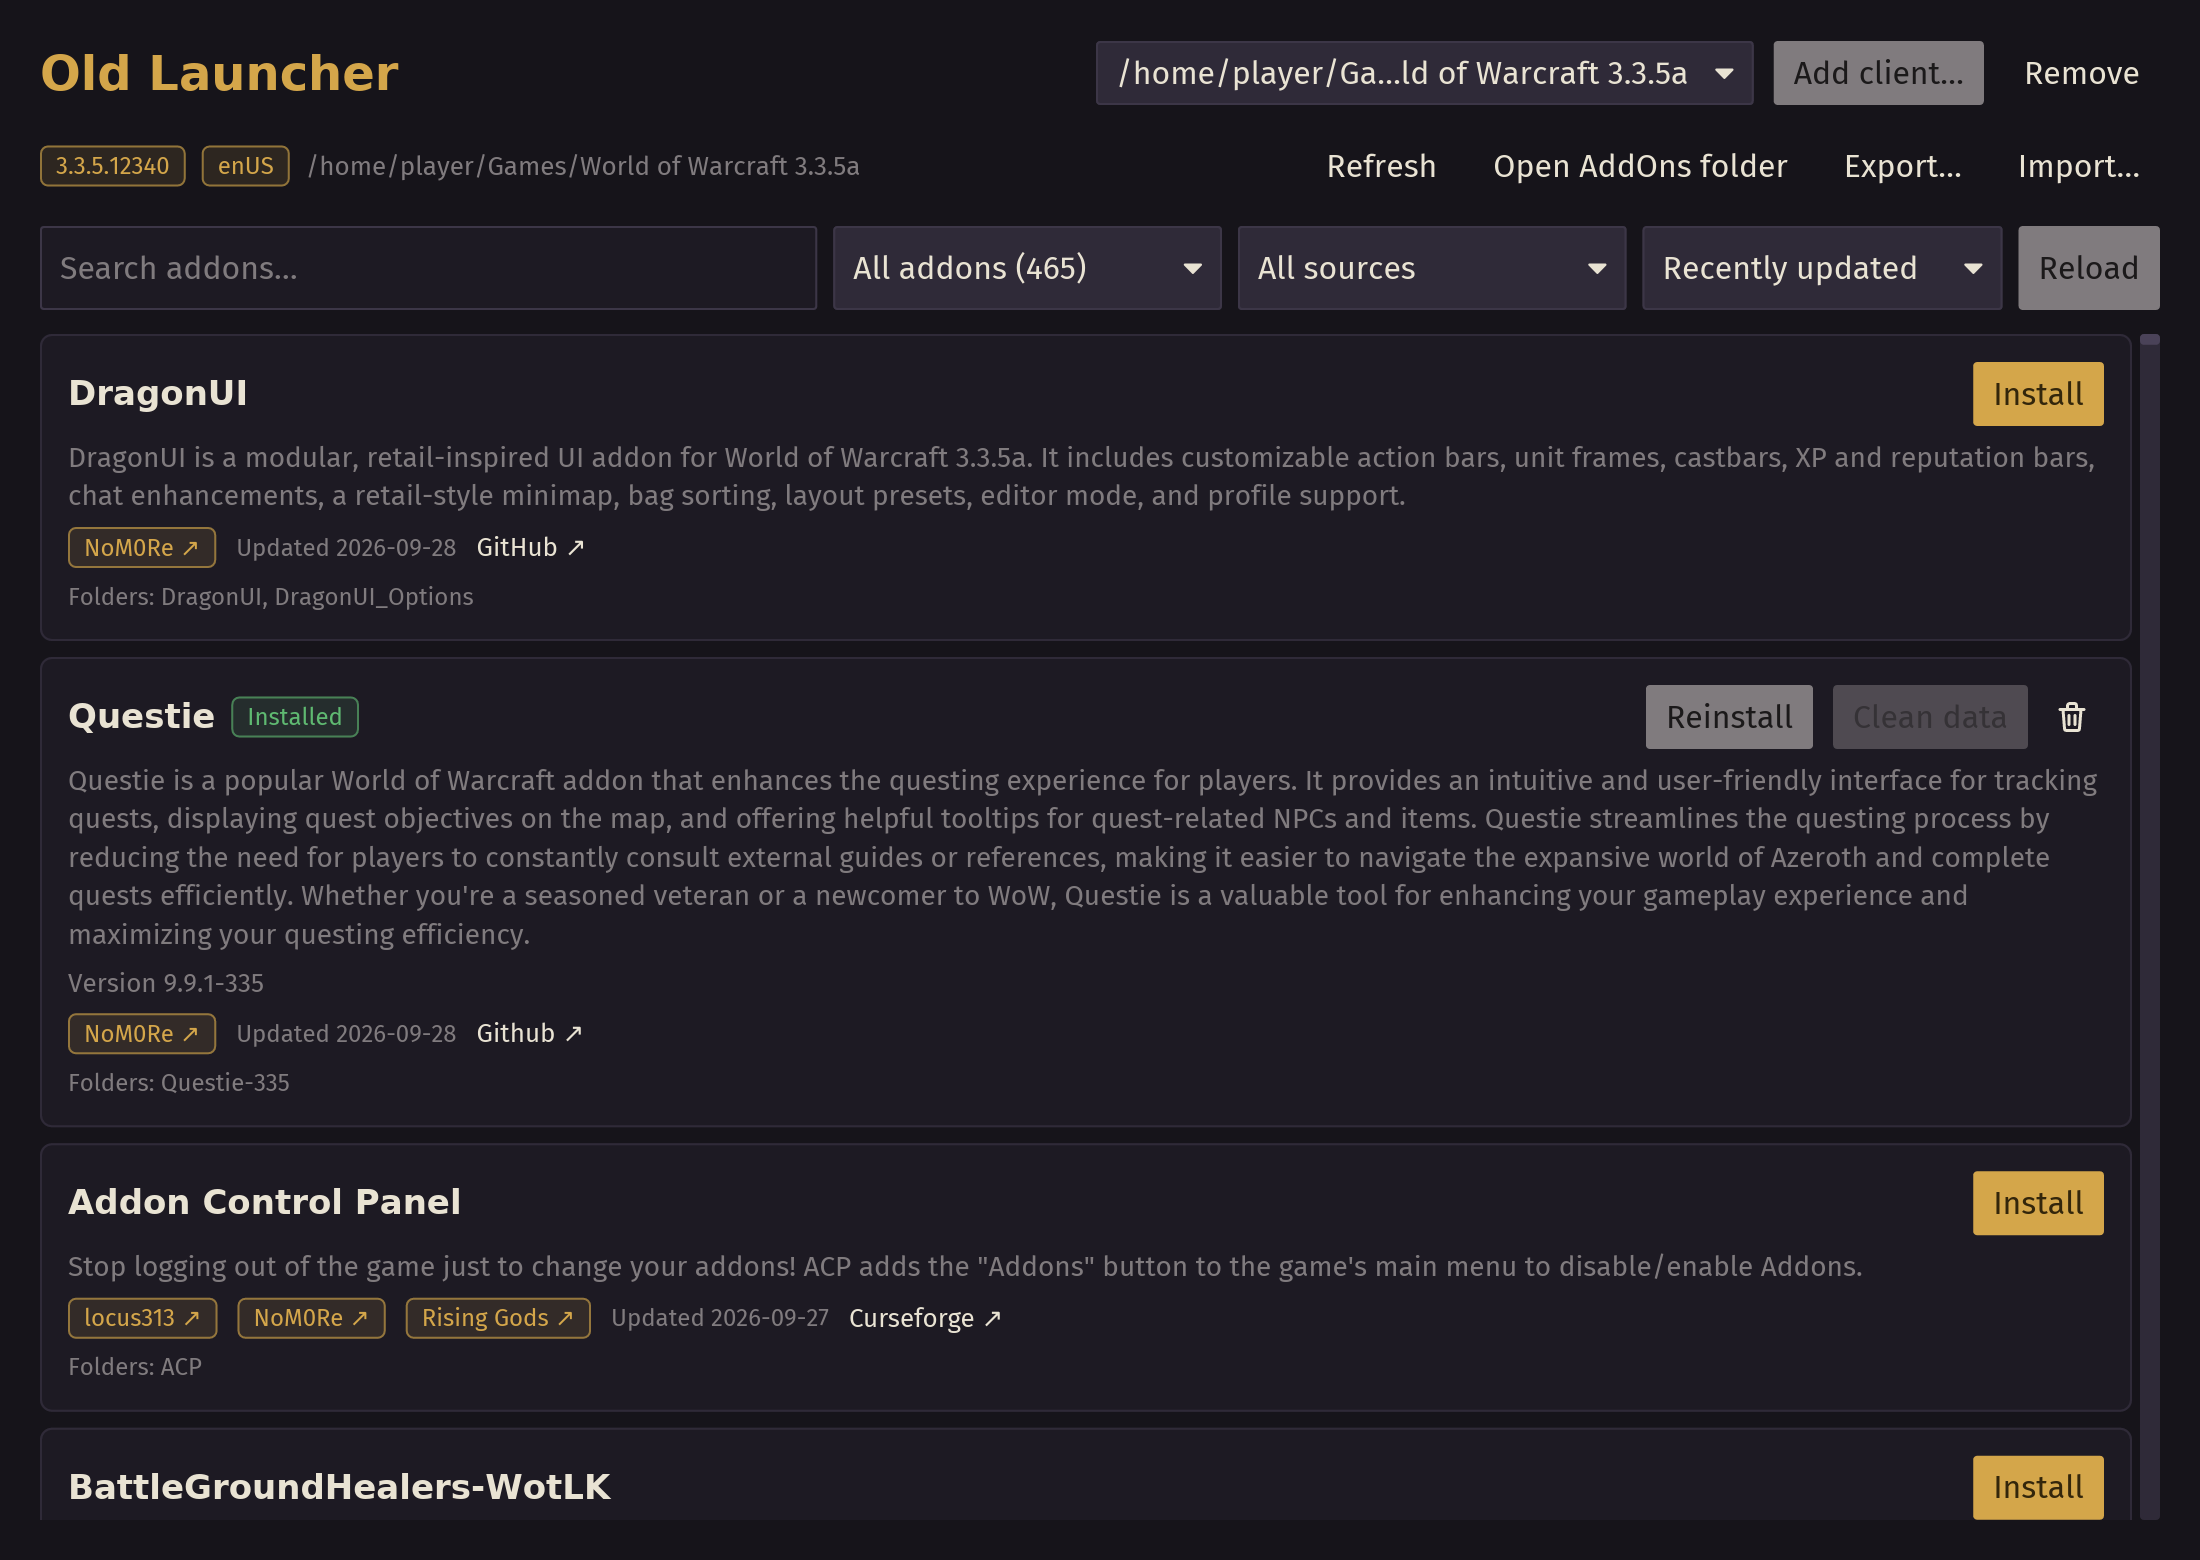
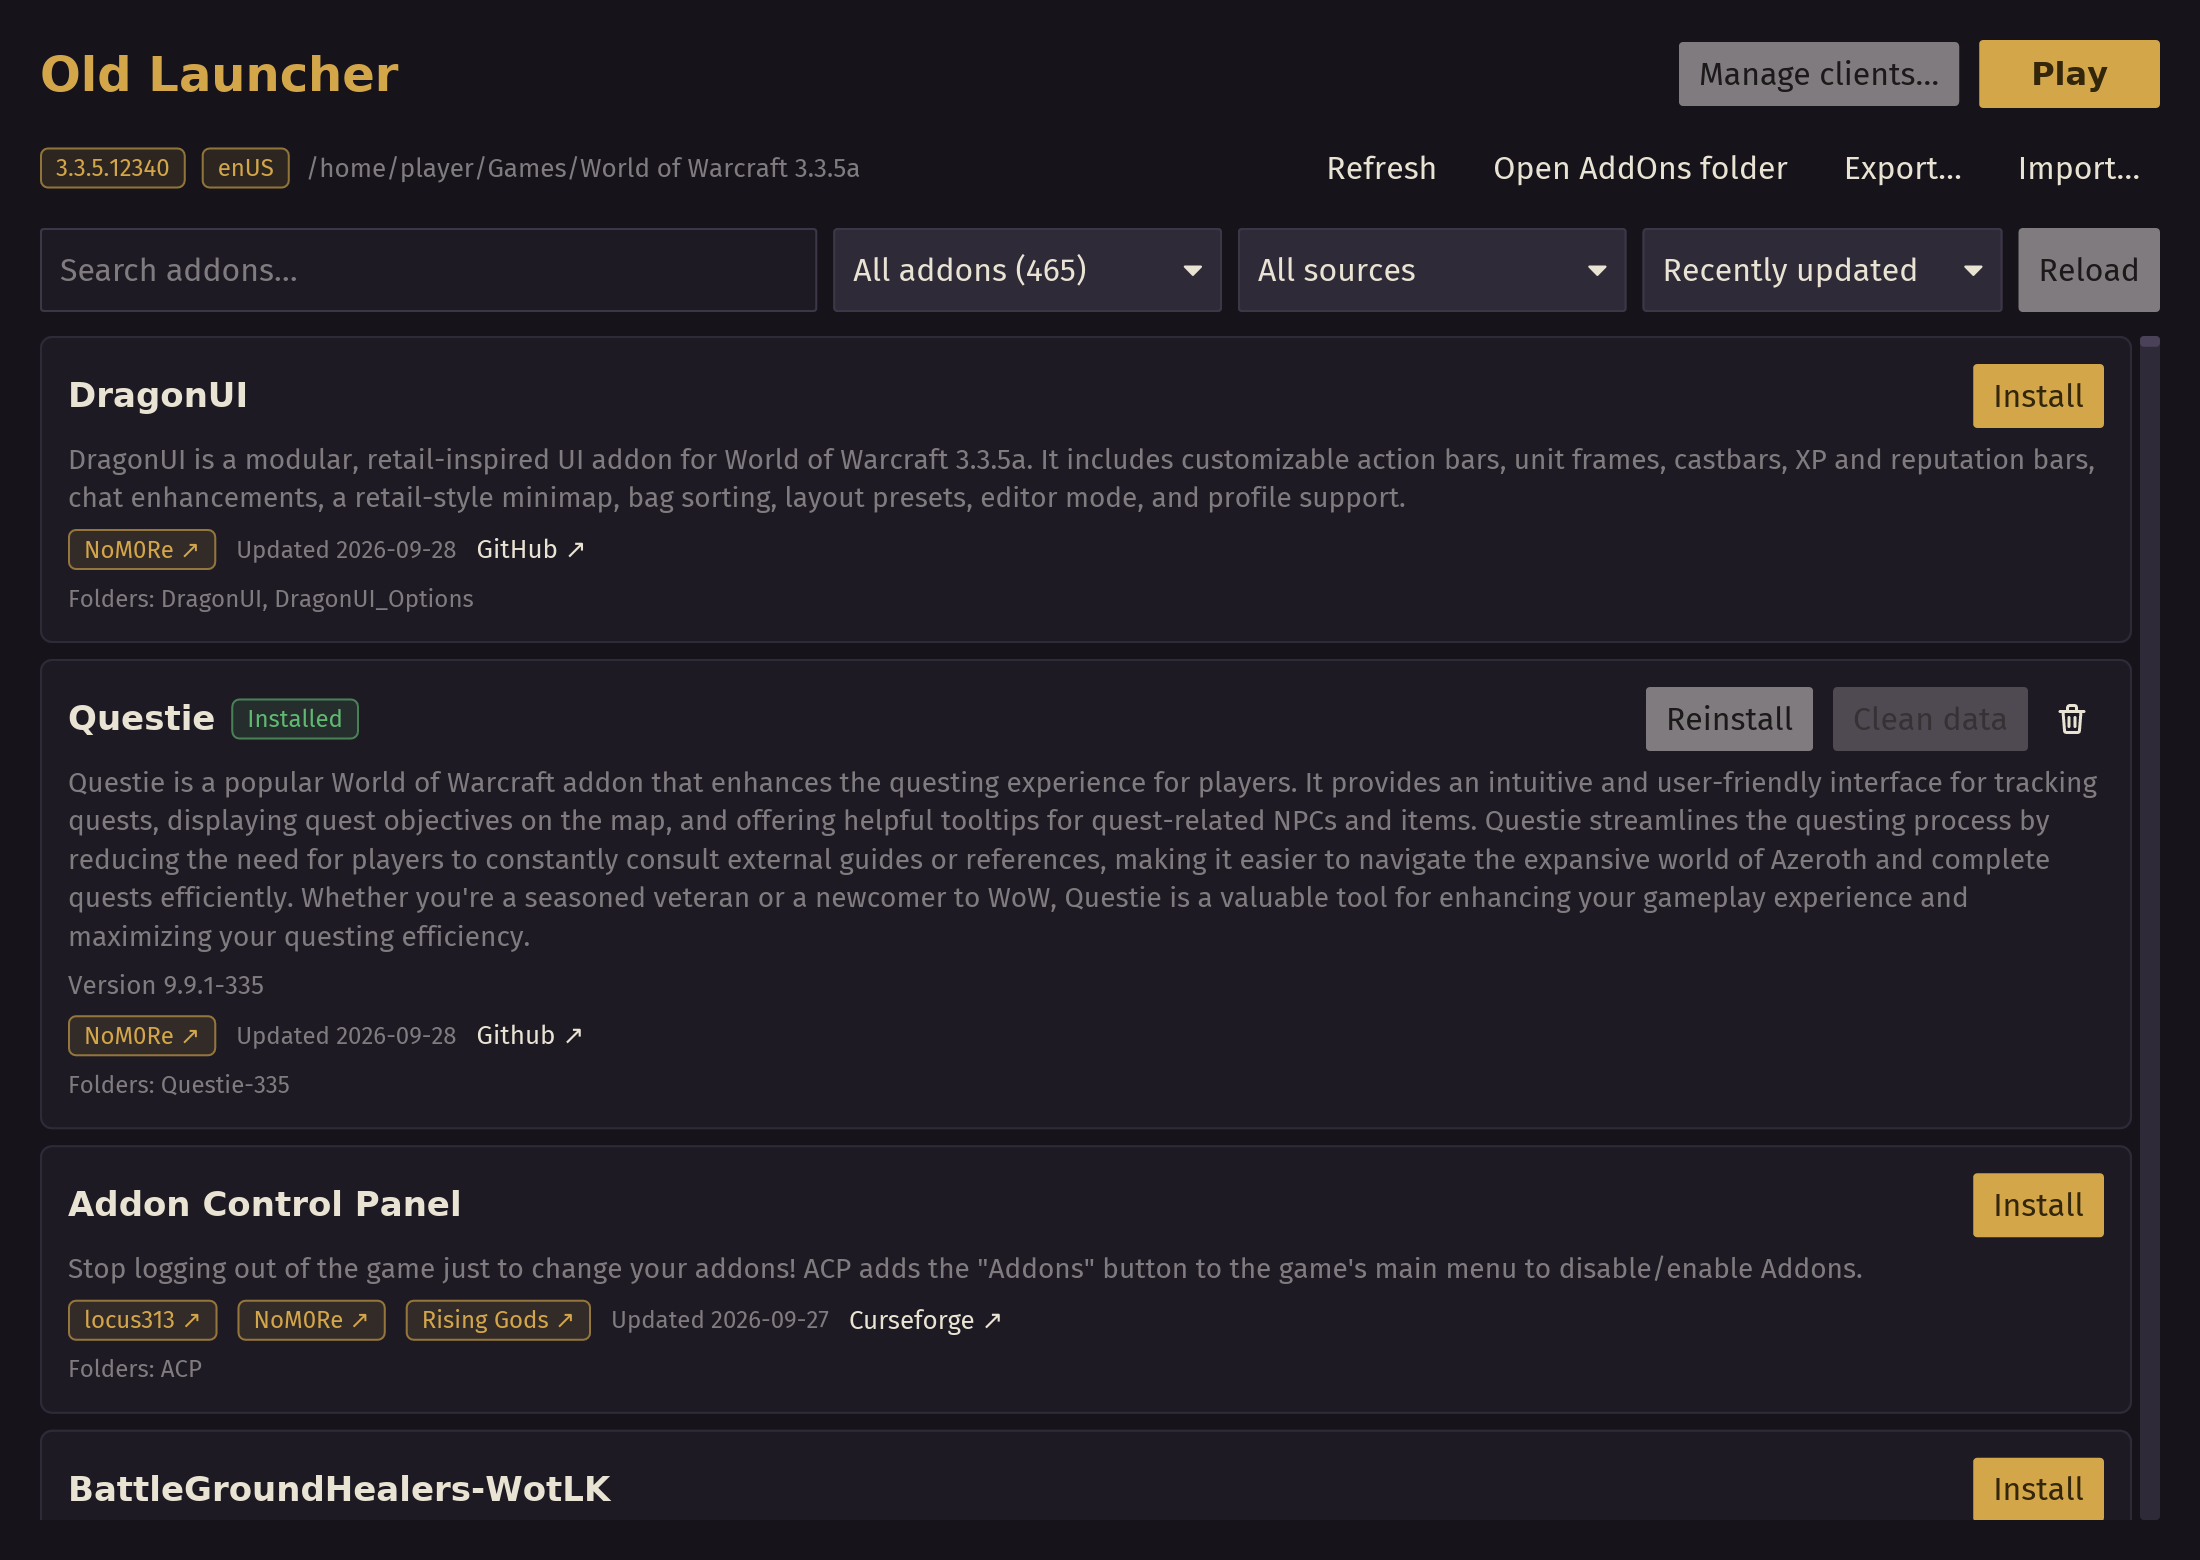
Describe it as a launcher too, and show the clients dialog
The README, the desktop entry, the page and the AUR package now say it
starts the game as well as managing addons. The screenshots show the
new header, and a fourth one the Clients dialog set up for Proton. The
package suggests wine, which the default command uses.

diff --git a/pages/head.html b/pages/head.html
@@ -1,3 +1,3 @@
 <link rel="icon" href="old_launcher.svg" type="image/svg+xml">
 <meta name="theme-color" content="#16141a">
-<meta name="description" content="Old Launcher: install and manage addons for World of Warcraft 3.3.5a clients, on Linux and Windows.">
+<meta name="description" content="Old Launcher: start World of Warcraft 3.3.5a and manage its addons, on Linux and Windows.">

diff --git a/README.md b/README.md
@@ -1,7 +1,7 @@
 # Old Launcher
 
-An addon manager for World of Warcraft 3.3.5a clients, built with
-[iced](https://github.com/iced-rs/iced).
+A launcher and addon manager for World of Warcraft 3.3.5a clients, built
+with [iced](https://github.com/iced-rs/iced).
 
 **[Download for Linux](https://gitlab.com/juxuanu/old_launcher/-/jobs/artifacts/main/raw/old_launcher-linux-x86_64?job=linux-x86_64)**
 **[Download for Windows](https://gitlab.com/juxuanu/old_launcher/-/jobs/artifacts/main/raw/old_launcher.exe?job=windows)**
@@ -25,6 +25,7 @@ Each is a single file built from the latest `main`; nothing to install.
 
 ![Every addon in one list, with the search box and the filters above it](assets/screenshots/addons.png)
 
+- **Play**: on Linux through Wine, Proton or any runner, set up per client.
 - **One list** of every addon, catalog and installed, to search and filter.
 - **Install** or reinstall with one click, from the freshest source.
 - **Manage** addons: uninstall, clean saved settings, repair broken folders.
@@ -33,6 +34,8 @@ Each is a single file built from the latest `main`; nothing to install.
 - **Several clients** side by side (3.3.5a only).
 
 ![The installed addons, among them a manual install and a broken folder to repair](assets/screenshots/installed.png)
+
+![A client's details, and how it starts on Linux: Proton through umu-launcher](assets/screenshots/clients.png)
 
 ![Importing addons and saved settings exported on another computer](assets/screenshots/import.png)
 
@@ -117,7 +120,14 @@ not descend into it, since deeper `.toc` files belong to embedded libraries.
 So only `Name/Name.toc` layouts ever reach `Interface/AddOns`, whatever the
 archive looks like.
 
-The only file outside the clients is the list of client folders:
+**Play** starts `Wow.exe` from the client folder on Windows. Elsewhere it
+runs the client's command with `sh`, the way Steam runs launch options: the
+environment variables are set and exported first, and `%command%` becomes
+the quoted path to `Wow.exe` (`wine %command%` when there is no command).
+`~` and `$HOME` expand as in a terminal.
+
+The only file outside the clients lists the client folders and how each one
+starts:
 `~/.config/old_launcher/config.toml` (the platform config directory
 elsewhere), or `$OLD_LAUNCHER_CONFIG` when set. If it can't be read, the
 launcher does nothing else until you choose: it shows why, where the file
@@ -128,13 +138,13 @@ edit it (then read it again), quit, or overwrite it with new settings.
 
 - `core/`: data and filesystem logic, no GUI and no network (TOC parsing,
   client detection, archive extraction, install/uninstall/repair/clean,
-  the catalog schema, adoption, and the `library` the list is filtered
-  from). Unit-tested against temporary directories.
+  the catalog schema, adoption, launch commands, and the `library` the list
+  is filtered from). Unit-tested against temporary directories.
 - `indexer/`: the CLI that builds `index/wotlk.json` from the upstream
   sources.
 - `src/`: the iced app. `lib.rs` is the shell, with one TEA cell per screen
-  (`setup`, and `addons` with its cards and confirmation dialogs). Screens
-  are tested with `iced_test::simulator`.
+  (`setup`, `clients`, and `addons` with its cards and confirmation
+  dialogs). Screens are tested with `iced_test::simulator`.
 
 Nothing outside tests may panic on purpose: the workspace denies `unwrap`,
 `expect`, `panic!`, `unreachable!`, `todo!` and `unimplemented!` through
